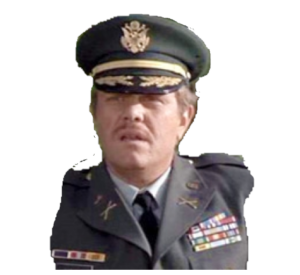
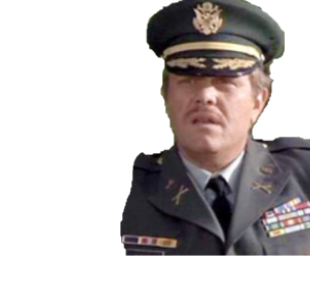
Really worked on the canvas and added a few global booleans and variables to make it responsive (so it doesn't delete one of the characters everytime you change characters). Also added some images for Crane, assigned some attributes and worked on abilities

diff --git a/assets/javascript/main.js b/assets/javascript/main.js
@@ -19,7 +19,7 @@ $(function () {
     var npcImage2 = document.getElementById("craneFace");
     var npcImage3 = document.getElementById("deckerFace");
     var charInfo = [];
-
+    var clearCanvas = true;
     // Characters, Location, HP, Abilities //
 
     var Hannibal = {
@@ -120,16 +120,55 @@ $(function () {
             "Miss the Jump"
         ]
     }
+    var Crane = {
+        name: "Crane",
+        age: 34,
+        HP: 300,
+        abilities: [
+            "",
+            "",
+            "",
+            ""
+        ],
 
+        abilityDescriptions: [
+            "",
+            "",
+            "",
+            ""
+        ],
+        //Agility, Accuracy, Strength//
+        attributes: [
+            { strength } = (
+                20
+            ),
+
+        ]
+    }
     var Decker = {
         name: "Decker",
         age: 41,
         HP: 300,
         abilities: [
+            "Squad Cars",
+            "Corner 'Em",
+            "The Enemy of my Enemy...",
+            "Fixing the Deck"
+        ],
 
+        abilityDescriptions: [
+            "Call in the local Boys in Blue, reduce enemy Agility by 20 for 2 turns",
+            "Get the Team in a bad position, +20% Strength +20% Accuracy -20.0 Enemy Agility (50% chance of success)",
+            "Cooperate with the local baddies, +20 Strength for 2 turns",
+            "Call in Crane for morale support, +30% to All Stats for 2 turns"
         ],
         //Agility, Accuracy, Strength//
-        attributes: [""]
+        attributes: [
+            { strength } = (
+                20
+            ),
+
+        ]
     }
     //End Enemies//
 
@@ -227,7 +266,7 @@ $(function () {
         switch (char) {
             case '#lynchFace':
                 p = npcImage1;
-                sx = 50;
+                sx = 100;
                 sy = 0;
                 swidth = 200;
                 sheight = 200;
@@ -248,8 +287,8 @@ $(function () {
                 p = npcImage2;
                 sx = 30;
                 sy = 0;
-                swidth = 600;
-                sheight = 600;
+                swidth = 300;
+                sheight = 300;
                 npcInfo = [Crane.name,
                 Crane.age,
                 Crane.HP,
@@ -280,8 +319,8 @@ $(function () {
         return { pick, sx, sy, swidth, sheight }
     }
 
-
-
+    var currentImage = [];
+    var drawNpc = false;
     $(document).on("click", ".charBtn", function () {
         ctx.clearRect(0, 0, canvas.width, canvas.height);
         ctx.beginPath();
@@ -290,6 +329,25 @@ $(function () {
         console.log(img);
         ctx.rect(10, 10, 200, 200);
         ctx.drawImage(img.pick, img.sx, img.sy, img.swidth, img.sheight, 20, 20, 100, 100);
+        if (drawNpc) {
+            switch (startClicks) {
+                case 0:
+                    var npcImg = drawnNpcImg('#lynchFace')
+                    ctx.drawImage(npcImg.pick, npcImg.sx, npcImg.sy, npcImg.swidth, npcImg.sheight, 200, 0, 100, 100);
+                    break;
+                case 1:
+                    var npcImg = drawnNpcImg('#craneFace')
+                    ctx.drawImage(npcImg.pick, npcImg.sx, npcImg.sy, npcImg.swidth, npcImg.sheight, 200, 0, 100, 100);
+                    break;
+                case 2:
+                    var npcImg = drawnNpcImg('#deckerFace')
+                    ctx.drawImage(npcImg.pick, npcImg.sx, npcImg.sy, npcImg.swidth, npcImg.sheight, 200, 0, 100, 100);
+                    break;
+            }
+        }
+
+        currentImage.push(img.pick, img.sx, img.sy, img.swidth, img.sheight);
+
     })
 
     $(".charBtn").one("click", function () {
@@ -305,17 +363,23 @@ $(function () {
         if (startClicks === 0) {
             var npcP = '#lynchFace';
             var img = drawnNpcImg(npcP);
+            if (img.HP === 0) {
+                startClicks++;
+            }
         } else if (startClicks === 1) {
             var npcP = '#craneFace';
             var img = drawnNpcImg(npcP);
+            startClicks++;
         } else if (startClicks === 1) {
             var npcP = '#deckerFace';
             var img = drawnNpcImg(npcP);
+            startClicks++;
         }
         console.log(img);
-
+        ctx.clearRect(0, 0, canvas.width, canvas.height);
+        ctx.beginPath();
         ctx.drawImage(img.pick, img.sx, img.sy, img.swidth, img.sheight, 200, 0, 100, 100);
-        startClicks++;
+
     })
 
 
@@ -323,6 +387,7 @@ $(function () {
     $("#startBtn").one("click", function () {
         if ($("#npcInfoArea").hasClass("hiddenImage")) {
             $("#npcInfoArea").toggleClass("hiddenImage");
+            drawNpc = true;
         }
     })
 
@@ -331,7 +396,7 @@ $(function () {
 
 
     $(document).on("click", ".charBtn", function () {
-        debugger;
+
 
         $("#name").text(charInfo[0]);
         $("#age").text("Age - " + charInfo[1]);
@@ -397,13 +462,55 @@ $(function () {
         }
     }
     function abilityTwo() {
+        switch (pick) {
+            case image1:
+                var ability = Hannibal.abilities[1];
+                $("#abilityTwoPrompt").html(ability);
+                break;
+            case image2:
+                var ability = BAB.abilities[1];
+                $("#abilityTwoPrompt").html(ability);
+                break;
+            case image3:
+                var ability = BAB.abilities[1];
+                $("#abilityTwoPrompt").html(ability);
+                break;
 
+        }
     }
     function abilityThree() {
+        switch (pick) {
+            case image1:
+                var ability = Hannibal.abilities[2];
+                $("#abilityThreePrompt").html(ability);
+                break;
+            case image2:
+                var ability = BAB.abilities[2];
+                $("#abilityThreePrompt").html(ability);
+                break;
+            case image3:
+                var ability = BAB.abilities[2];
+                $("#abilityThreePrompt").html(ability);
+                break;
 
+        }
     }
     function abilityFour() {
+        switch (pick) {
+            case image1:
+                var ability = Hannibal.abilities[3];
+                $("#abilityFourPrompt").html(ability);
+                break;
+            case image2:
+                var ability = BAB.abilities[3];
+                $("#abilityFourPrompt").html(ability);
+                break;
+            case image3:
+                var ability = BAB.abilities[3];
+                $("#abilityFourPrompt").html(ability);
+                break;
 
+        }
     }
 
     function a(c) {

diff --git a/index.html b/index.html
@@ -19,7 +19,7 @@
     <img src="./assets/images/murdock-gameCanvas-model.png" class="hiddenImage" id="gameMurdock">
     <img src="assets/images/face-gameplayCanvas-model.png" class="hiddenImage" id="gameFace">
     <img src="assets/images/col_lynch.png" class="hiddenImage" id="lynchFace">
-    <img src="assets/images/capt-crane.jpg" class="hiddenImage" id="craneFace">
+    <img src="assets/images/capt-crane.png" class="hiddenImage" id="craneFace">
     <header>
         <nav>
             <div class="nav-wrapper black">
@@ -31,6 +31,8 @@
                     <li><button id="pauseBtn" class="btn floatLeft black"> Pause/Resume </button></li>
                     <br>
                     <li><button id="" class="btn floatLeft black">Characters</button></li>
+                    <br>
+                    <li><button id="nextRound" class="btn floatLeft black">Skip Round</button></li>
                     <br>
                     <li><button id="startBtn" class="btn floatLeft white black-text"> Start Round! </button></li>
 
